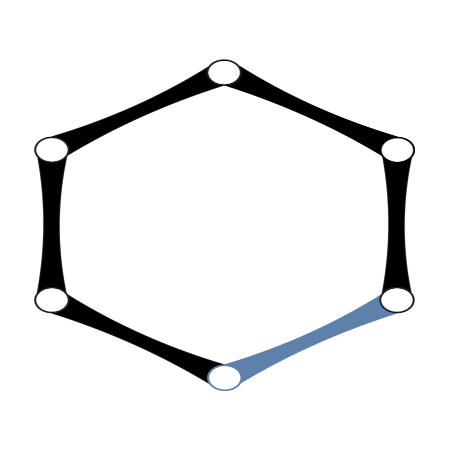
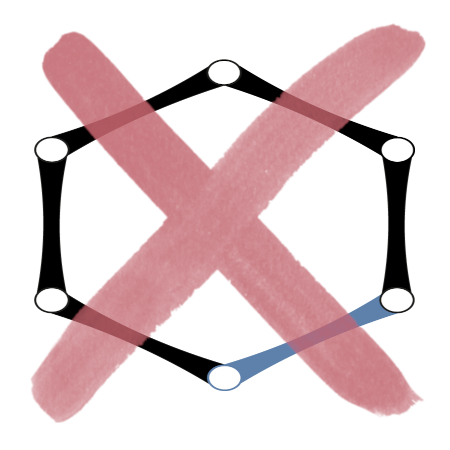
Add crosses on Not-To-Do imgs

diff --git a/design.html b/design.html
@@ -194,8 +194,16 @@
                 <img src="./img/not/rotation.png" alt="No logo rotation">
             </article>
             <h3>For texts</h3>
-            <h4>Text with same width</h4>
-            <h4>Vertically centered</h4>
+            <div class="grid">
+            <article class="text-center" data-theme="light">
+                <h4>Text with same width</h4>
+                <img src="./img/not/notAligned.png" alt="No aligned logo">
+            </article>
+            <article class="text-center" data-theme="light">
+                <h4>Vertically centered</h4>
+                <img src="./img/not/verticalCenter.png" alt="No vertical centering logo">
+            </article>
+            </div>
         </section>
 
         <section class="examples">
